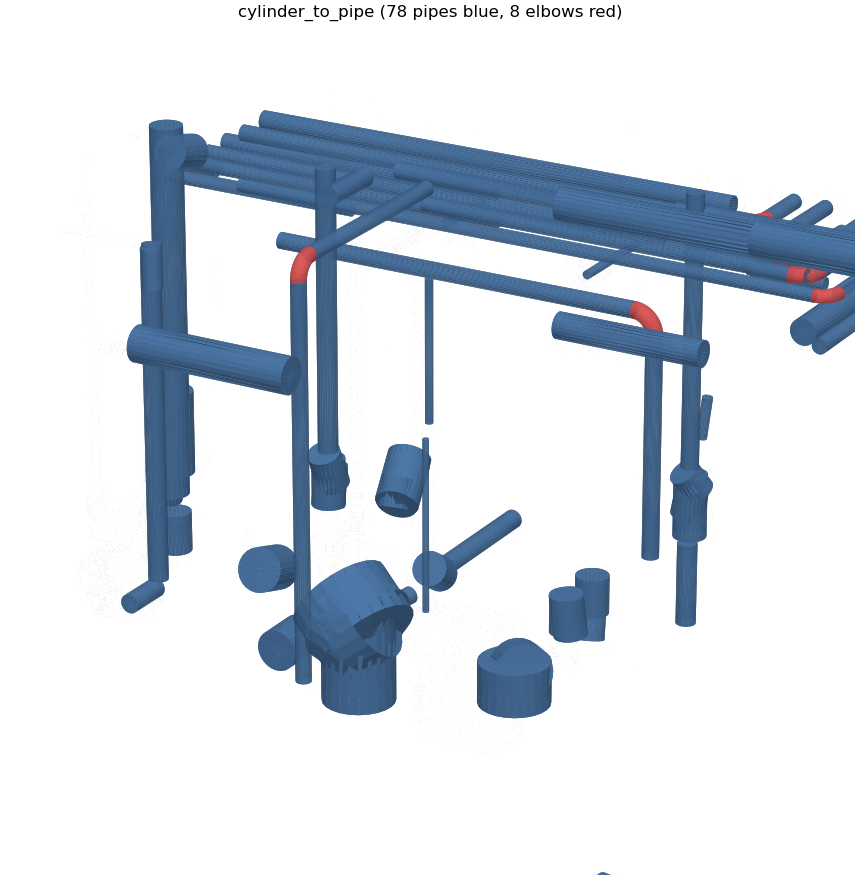
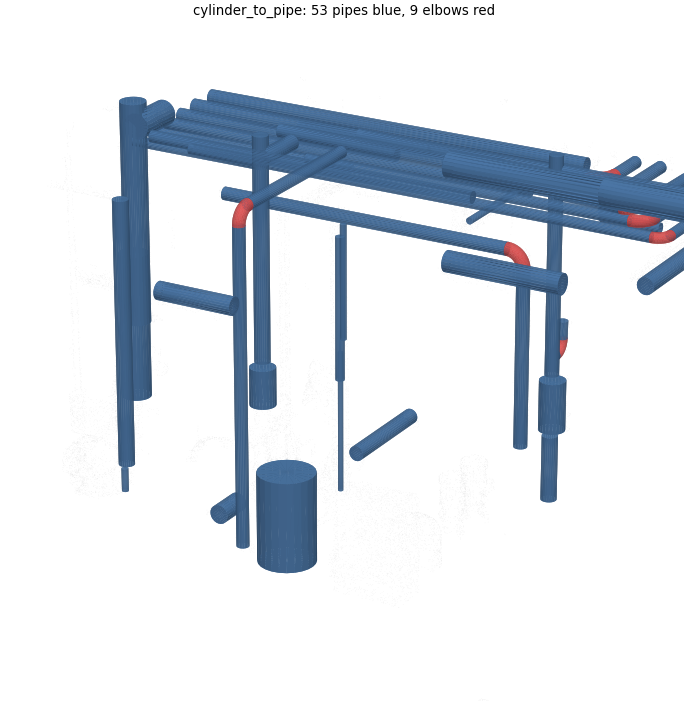
doc: shape rules, stage logs and updated sample results

diff --git a/doc/pipe.md b/doc/pipe.md
@@ -10,8 +10,8 @@ pipeline.pipe_rule(*.laz | *.las | *.pcd) > *.ifc
 | stage | input | output |
 |---|---|---|
 | pcd_to_clean | LAS, LAZ, PCD, PLY | `pcd_to_clean.pcd`, down sampled and without outliers |
-| pcd_to_cylinder | point cloud | `_@<n>.pcd` per cylinder, `_residual.pcd`, `_cylinder.json` |
-| cylinder_to_pipe | `_cylinder.json` | `_pipe.json` (pipes and elbows), `_pipe.ply` (mesh for checking) |
+| pcd_to_cylinder | point cloud | `_@<n>.pcd` per cylinder, `_residual.pcd`, `_cylinder.json`, `_log.json`, `_rejected_@<n>.pcd` |
+| cylinder_to_pipe | `_cylinder.json` | `_pipe.json` (pipes and elbows), `_pipe.ply` (mesh for checking), `_log.json` |
 | geo_to_bim_pipe | `_pipe.json` | `.ifc` with IfcPipeSegment and IfcPipeFitting |
 
 Coordinates are taken as meters. Scans in millimeters or feet have to be scaled first, or every length parameter below changed to that unit.
@@ -34,8 +34,8 @@ Each stage is also a program of its own. `--input` is a path prefix; the stage r
 
 ```
 python pcd_to_clean/pcd_to_clean.py --input ./input/kict_mep_zero_en_bdlg_parts/kict_mep_zero_en_bdlg_parts.laz --output ./output/mep/clean --voxel_down_size 0.01 --stat_neighbors 20 --stat_std_ratio 2.0 --nb_radius_points 10 --nb_radius 0.03
-python pcd_to_cylinder/pcd_to_cylinder.py --input ./output/mep/clean --output ./output/mep/cyl --min_radius 0.01 --max_radius 0.3
-python cylinder_to_pipe/cylinder_to_pipe.py --input ./output/mep/cyl --output ./output/mep/net --pipe_standard cylinder_to_pipe/pipe_standard.json
+python pcd_to_cylinder/pcd_to_cylinder.py --input ./output/mep/clean --output ./output/mep/cyl --min_radius 0.01 --max_radius 0.3 --pipe_angles "[45, 90]"
+python cylinder_to_pipe/cylinder_to_pipe.py --input ./output/mep/cyl --output ./output/mep/net --pipe_standard cylinder_to_pipe/pipe_standard.json --min_length_ratio 1.5
 python geo_to_bim_pipe/geo_to_bim_pipe.py --input ./output/mep/net --output ./output/mep/mep --mapping_rule geo_to_bim_pipe/pipe_mapping_rule.json
 ```
 
@@ -46,30 +46,31 @@ The messages of a run on the sample (the per cylinder lines shortened):
 cylinder 0: r=0.098 length=1.65 points=9556 coverage=0.89
 cylinder 1: r=0.022 length=0.80 points=287 coverage=0.28
 ...
-106 cylinders, 132222 points left, 51.4 s
-106 cylinders merged into 78 pipes, 8 elbows, 64 pipes with a nominal size
-86 elements saved to .../geo_to_bim_pipe/geo_to_bim_pipe.ifc: {'IfcPipeSegment': 78, 'IfcPipeFitting': 8}
+80 cylinders, 24 rejected, 141060 points left, 37.3 s
+80 cylinders merged into 53 pipes, 9 elbows, 48 pipes with a nominal size, 5 dropped
+62 elements saved to .../geo_to_bim_pipe/geo_to_bim_pipe.ifc: {'IfcPipeSegment': 53, 'IfcPipeFitting': 9}
 ```
 
 ## results on the sample
 
-The whole run takes about one minute on a 20 core ARM machine, most of it in pcd_to_cylinder.
+The whole run takes under a minute on a 20 core ARM machine, most of it in pcd_to_cylinder. The sample pipeline uses the shape rules below (`pipe_angles` [45, 90], `min_length_ratio` 1.5).
 
 <p align="center">
 <img width="360" src="./pipe_scan.png"/><img width="360" src="./pipe_cylinders.png"/></br>
-<img width="360" src="./pipe_residual.png"/><img width="360" src="./pipe_bim.png"/></br>
-<img width="360" src="./pipe_ifc.png"/>
+<img width="360" src="./pipe_residual.png"/><img width="360" src="./pipe_rejected.png"/></br>
+<img width="360" src="./pipe_bim.png"/><img width="360" src="./pipe_ifc.png"/>
 </p>
 
 1. pcd_to_clean. A 1 cm voxel grid and the outlier filters leave 263,967 points.
-2. pcd_to_cylinder. 106 cylinders, one color each. Pipes of the rack that are scanned from one side only are found, because a cylinder needs an unbroken arc of a quarter of the circle, not the full circle.
-3. The residual. 132,222 points are not on any cylinder: pumps, valves, flanges, the panel, cable trays and the elbows, whose bends are not cylinders. The flat trays above the rack stay here as they should.
-4. cylinder_to_pipe. 106 cylinders are merged into 78 straight pipes (blue), and 8 elbows (red) are made where two pipe ends meet at 90 degrees. 64 pipes got a nominal size, most of them 80A, 90A and 175A. Each elbow is tangent to both pipes with no gap.
-5. geo_to_bim_pipe. The IFC file opened again with ifcopenshell: 78 IfcPipeSegment (pipes blue, risers green) and 8 IfcPipeFitting BEND (red). All 86 shapes are valid solids.
+2. pcd_to_cylinder. 80 cylinders, one color each. Pipes of the rack that are scanned from one side only are found, because a cylinder needs an unbroken arc of a quarter of the circle, not the full circle.
+3. The residual. 141,060 points are not on any cylinder: pumps, valves, flanges, the panel, cable trays and the elbows, whose bends are not cylinders. The flat trays above the rack stay here as they should.
+4. Rejected. 24 cylinders whose axes no fitting can make (red) are rejected in pcd_to_cylinder, mostly on the curved casings of pumps and valves. 5 pipes are dropped in cylinder_to_pipe (orange): 4 short, thick cylinders of pump bodies and 1 piece inside a bend.
+5. cylinder_to_pipe. 80 cylinders are merged into 53 straight pipes (blue), and 9 elbows (red) are made where two pipe ends meet at 90 degrees. 48 pipes got a nominal size, most of them 80A, 90A, 65A and 100A. Each elbow is tangent to both pipes with no gap.
+6. geo_to_bim_pipe. The IFC file opened again with ifcopenshell: 53 IfcPipeSegment (pipes blue, risers green) and 9 IfcPipeFitting BEND (red). All 62 shapes are valid solids.
 
 What it does not do yet:
 
-- The cylindrical bodies of pumps and the expansion tank come out as short, thick pipes. A rule on `length` and `diameter` can map them to another class or leave them out.
+- The expansion tank is upright and longer than its diameter, so the shape rules keep it as a pipe. A mapping rule on `diameter` can map it to another class.
 - Where pipes turn twice in a short distance the pieces between the turns are too short to find, so those elbows are missing.
 - The measured diameter of an insulated pipe is the insulation, so its nominal size is that of a larger pipe. Use the nominal sizes as a guide.
 - Tees, reducers, valves and flanges are not modeled. Their points are in the residual.
@@ -87,6 +88,8 @@ All stage parameters are listed in [sbdl.md](./sbdl.md). These are the ones to l
 | `min_coverage` | pcd_to_cylinder | lower it for pipes seen from one side only, raise it when false cylinders appear between pipes lying side by side |
 | `min_points`, `min_length` | pcd_to_cylinder | lower them to keep short pieces such as the pipe between two elbows |
 | `axis_snap_angle` | pcd_to_cylinder | 0 for sloped pipes such as drains |
+| `pipe_angles`, `grid_azimuth` | pcd_to_cylinder | the fitting angles of the piping and the direction of the building grid, see shape rules |
+| `min_length_ratio` | cylinder_to_pipe | the shortest pipe as a multiple of its diameter, see shape rules |
 | `merge_gap` | cylinder_to_pipe | the largest gap along a pipe, such as a valve or a hanger that hides the pipe |
 | `pipe_standard` | cylinder_to_pipe | another file for another standard. empty keeps the measured radii |
 | `nominal_tolerance` | cylinder_to_pipe | how far a measured radius may be from a nominal size |
@@ -103,9 +106,55 @@ The SBDL file of the sample sets them like this:
     "max_radius": 0.3,
     "distance_tolerance": 0.005,
     "min_coverage": 0.25,
-    "axis_snap_angle": 5.0
+    "axis_snap_angle": 5.0,
+    "pipe_angles": [45, 90]
 }
 ```
+
+## shape rules
+
+RANSAC fits a cylinder to any curved surface, including pump casings, valve bodies and tank heads. Two facts about piping tell most of these apart from pipes.
+
+- A pipe run turns only by the angles of its fittings, usually 90 and 45 degrees, sometimes 30 or 60. So a pipe axis is level or vertical, or at a multiple of a fitting angle from them, and its plan direction is the building grid turned by such a multiple. With `pipe_angles` [45, 90] the axis must lie within `axis_snap_angle` of one of 9 directions (x, y, z, the 4 level diagonals and the 4 diagonals at 45 degrees up); [30, 45, 60, 90] gives 33 directions and [90] only x, y and z. A cylinder on another axis is rejected and its points are left for other cylinders. A cylinder near an allowed direction is snapped to it. `grid_azimuth` turns the grid when the scan is not aligned with x and y. [] (the default) allows any axis as before.
+- A pipe is long for its diameter. Pump bodies and motor housings are short and thick. `min_length_ratio` drops pipes shorter than that many diameters, unless an elbow joins them. It is applied after merging, so the short pieces of one long pipe are not lost. 0 (the default) keeps them.
+
+Results on the sample, with pipes on x, y or z and at least 2 diameters long counted as real pipes:
+
+| run | cylinders | pipes | elbows | real pipe length found | other shapes |
+|---|---|---|---|---|---|
+| no rules, seed 1 | 118 | 85 | 9 | 91 % | 32 |
+| no rules, seed 2 | 108 | 79 | 10 | 85 % | 27 |
+| rules, seed 0 | 80 | 53 | 9 | 88 % | 7 |
+| rules, seed 1 | 68 | 45 | 8 | 87 % | 5 |
+| rules, seed 2 | 83 | 56 | 8 | 86 % | 4 |
+| rules, 2 x 2 tiles | 78 | 56 | 11 | 92 % | 7 |
+
+The real pipe length is the share of the real pipes of a run without rules (2 x 2 tiles, 59.8 m) found again. The rules remove most of the other shapes and find the real pipes as well as a run without them; the spread is that of RANSAC itself. [90] alone gave a few percent more real pipe length on this room, which has no 45 degree runs.
+
+Each stage writes what it rejected to `<output>_log.json`, so a result can be checked without running it again:
+
+```
+pcd_to_cylinder_log.json
+{"stage": "pcd_to_cylinder", "input": [...], "parameters": {...}, "points": 263967, "cylinders": 80,
+ "rejected": 24, "residual": 141060, "seconds": 37.3,
+ "rejected_cylinders": [{"id": 0, "reason": "direction", "elevation": 66.08, "azimuth": 87.71,
+                         "file": "pcd_to_cylinder_rejected_@0.pcd", "start": [...], "end": [...], "axis": [...],
+                         "radius": 0.099, "length": 0.24, "points": 499, "coverage": 0.56}, ...]}
+
+cylinder_to_pipe_log.json
+{"stage": "cylinder_to_pipe", "input": [...], "parameters": {...}, "cylinders": 80, "pipes": 53, "elbows": 9,
+ "dropped": 5,
+ "dropped_pipes": [{"reason": "length_ratio", "length_ratio": 0.62, "id": 4, "start": [...], "end": [...],
+                    "radius": 0.202, "nominal": null, "length": 0.25, "cylinders": [31], ...}, ...]}
+```
+
+`elevation` is the angle of the axis from the level plane and `azimuth` its plan direction from the grid, both in degrees. The points of each rejected cylinder are in the `file` next to the log; those of a dropped pipe are in the `_@<n>.pcd` files of its `cylinders`. The reasons are `direction` (pcd_to_cylinder), `elbow_piece`, `short` (below `min_pipe_length`) and `length_ratio` (cylinder_to_pipe). A surface found again from other seeds is listed once.
+
+<p align="center">
+<img width="360" src="./pipe_ifc_no_rules.png"/><img width="360" src="./pipe_ifc.png"/>
+</p>
+
+Without rules (left) and with them (right).
 
 ## large point clouds
 
@@ -127,17 +176,17 @@ Cutting a pipe at a tile border leaves two pieces that may each fall below `min_
 2. A cylinder found in two tiles, or in two pieces, is joined into one: same axis and radius, overlapping or with a gap below `max_gap`. The joined cylinder is refitted on all its points.
 3. The thresholds are checked again on the joined cylinders, and a point found by two cylinders stays with the larger one. `_cylinder.json` looks the same as without tiles, so the next stages do not change.
 
-On the sample with 2 x 2 tiles (margin 0.65 m):
+On the sample with 2 x 2 tiles (margin 0.65 m) and the shape rules:
 
 | run | cylinders | pipes | elbows | time |
 |---|---|---|---|---|
-| whole cloud, seed 0 | 106 | 78 | 8 | 55 s |
-| whole cloud, seed 1 | 118 | 85 | 9 | 55 s |
-| whole cloud, seed 2 | 108 | 79 | 10 | 50 s |
-| 2 x 2 tiles, 1 worker | 95 | 78 | 8 | 84 s |
-| 2 x 2 tiles, 4 workers | 95 | 78 | 8 | 29 s |
+| whole cloud, seed 0 | 80 | 53 | 9 | 37 s |
+| whole cloud, seed 1 | 68 | 45 | 8 | 24 s |
+| whole cloud, seed 2 | 83 | 56 | 8 | 40 s |
+| 2 x 2 tiles, 1 worker | 78 | 56 | 11 | 85 s |
+| 2 x 2 tiles, 4 workers | 78 | 56 | 11 | 32 s |
 
-84 % of the pipe length of the whole cloud run lies on pipes of the tiled run. Two whole cloud runs with other seeds match it by 84 % and 85 %, so the tiles change the result no more than the random sampling of RANSAC does. There are fewer cylinders because pieces of one pipe that the whole cloud run kept apart are joined. A tile with its margin holds more points than a quarter of the cloud, so on a small cloud like this the tiles pay off only in parallel. On large clouds the tiles also bound the work of each search. The whole cloud is still loaded once, so memory is not reduced.
+89 % of the pipe length of the whole cloud run (seed 0) lies on pipes of the tiled run. Two whole cloud runs with other seeds match it by 83 % and 86 %, so the tiles change the result no more than the random sampling of RANSAC does. Without the shape rules the figures were 84 % against 84 % and 85 %. There are fewer cylinders because pieces of one pipe that the whole cloud run kept apart are joined. A tile with its margin holds more points than a quarter of the cloud, so on a small cloud like this the tiles pay off only in parallel. On large clouds the tiles also bound the work of each search. The whole cloud is still loaded once, so memory is not reduced.
 
 ## pipe standard file
 
@@ -190,7 +239,7 @@ The parameters a condition can use are `kind`, `radius`, `diameter`, `length`, `
 
 ## tests
 
-`tests/test_cylinder.py` checks the stages on synthetic pipes: a pipe scanned from one side next to a wall, axis snapping and splitting at gaps, pipes joined across a tile border, merging, nominal sizes, elbows with their tangent points, no elbow at a tee or an odd angle, elbow pieces and 45 degree offsets, the mapping rules, and a run of the three stages whose IFC elbow is checked against a quarter torus.
+`tests/test_cylinder.py` checks the stages on synthetic pipes: a pipe scanned from one side next to a wall, axis snapping and splitting at gaps, pipes joined across a tile border, pipe directions and the rejection of axes off the fitting angles, the stage logs of rejected cylinders and dropped short pipes, merging, nominal sizes, elbows with their tangent points, no elbow at a tee or an odd angle, elbow pieces and 45 degree offsets, the mapping rules, and a run of the three stages whose IFC elbow is checked against a quarter torus.
 
 ```
 python -m pytest tests/test_cylinder.py
@@ -206,3 +255,4 @@ python -m pytest tests/test_cylinder.py
 | 2026.11 | geo_to_bim_pipe: IfcPipeSegment as extruded circles, IfcPipeFitting BEND as a disk swept along an arc, classes and properties from a mapping rule file. |
 | 2026.11 | pipe_rule sample pipeline on part of the KICT zero energy building mechanical room. |
 | 2026.11 | pcd_to_cylinder: tiled search with a margin around each tile, joining of pieces across tile borders, tiles in parallel. |
+| 2026.11 | shape rules: axes only at multiples of the fitting angles (pipe_angles, grid_azimuth) and a shortest pipe per diameter (min_length_ratio). Stage logs with the rejected cylinders and dropped pipes and their points. |

diff --git a/doc/sbdl.md b/doc/sbdl.md
@@ -150,7 +150,7 @@ The pipe stages, with results on a sample scan, are also described in [pipe.md](
 
 Extracts cylinders, such as pipes, with RANSAC. A seed point and a neighbour with their normals give a cylinder hypothesis; the hypotheses are scored around the seed, the best one is refined by least squares on all points (axis from the normals, circle fit across the axis) and cut where its points stop along the axis. A cylinder is kept when its points cover an unbroken arc of at least `min_coverage`, so a pipe scanned from one side is still found while a false cylinder touching several pipes is not. Its points are then removed and the search goes on until `max_failures` seeds in a row give nothing.
 
-Reads every point cloud that matches the input prefix, LAS and LAZ included. Writes `<output>_@<n>.pcd` with the points of each cylinder, `<output>_residual.pcd` with the rest and `<output>_cylinder.json` with start, end, axis, radius, length, number of points and coverage of each cylinder.
+Reads every point cloud that matches the input prefix, LAS and LAZ included. Writes `<output>_@<n>.pcd` with the points of each cylinder, `<output>_residual.pcd` with the rest and `<output>_cylinder.json` with start, end, axis, radius, length, number of points and coverage of each cylinder. `<output>_log.json` holds the parameters, the counts and the cylinders rejected by `pipe_angles`, whose points are in `<output>_rejected_@<n>.pcd`.
 
 | parameter | default | |
 |---|---|---|
@@ -167,6 +167,8 @@ Reads every point cloud that matches the input prefix, LAS and LAZ included. Wri
 | `hypotheses` | 50 | hypotheses scored per seed point |
 | `max_failures` | 200 | |
 | `seed` | 0 | random seed, for repeatable results |
+| `pipe_angles` | [] | fitting angles, e.g. [45, 90]. axes that are not level, vertical or at a multiple of these angles from them, in plan from the grid, are rejected. [] allows any axis |
+| `grid_azimuth` | 0 | plan direction of the building grid from x, in degrees |
 | `tiles` | [1, 1] | tiles along x and y, or x, y and z. [1, 1] searches the whole cloud at once |
 | `tile_overlap` | 0 | margin around each tile. 0 takes max(`min_length`, 2 x `max_radius`) + `max_gap` |
 | `tile_workers` | 1 | tiles searched in parallel processes |
@@ -175,7 +177,7 @@ With more than one tile, each tile is searched together with the margin around i
 
 ### cylinder_to_pipe
 
-Merges cylinders on one axis into straight pipes, snaps their radii to nominal sizes and joins two pipe ends that point at a common corner with an elbow. The elbow is a torus segment tangent to both pipes; both pipes are cut or extended to its tangent points. A short pipe in the corner of an elbow, at an angle to both pipes, is a piece of the bend and is dropped. Two parallel pipes joined by a short pipe at 45 degrees are an offset and keep the short pipe. Writes `<output>_pipe.json` (pipes and elbows) and `<output>_pipe.ply`.
+Merges cylinders on one axis into straight pipes, snaps their radii to nominal sizes and joins two pipe ends that point at a common corner with an elbow. The elbow is a torus segment tangent to both pipes; both pipes are cut or extended to its tangent points. A short pipe in the corner of an elbow, at an angle to both pipes, is a piece of the bend and is dropped. Two parallel pipes joined by a short pipe at 45 degrees are an offset and keep the short pipe. Writes `<output>_pipe.json` (pipes and elbows), `<output>_pipe.ply` and `<output>_log.json` with the parameters, the counts and the pipes that were dropped, with the reason.
 
 | parameter | default | |
 |---|---|---|
@@ -190,6 +192,7 @@ Merges cylinders on one axis into straight pipes, snaps their radii to nominal s
 | `elbow_axis_tolerance` | 1.0 | largest distance between the two axes, in pipe radii |
 | `elbow_reach` | 0.5 | largest distance from a pipe end to the corner |
 | `elbow_piece_length` | 0.3 | shorter pipes in the corner of an elbow are dropped |
+| `min_length_ratio` | 0 | pipes shorter than this many diameters and not joined by an elbow are dropped. 0 keeps them |
 
 The pipe standard file holds what a pipe standard defines. Relative paths are taken from the working directory, then from the repository root.
 

diff --git a/doc/cli.md b/doc/cli.md
@@ -69,8 +69,8 @@ A pipeline file with the parameters that are most often changed:
 {
     "pipeline.pipe_rule": [
         {"type": "pcd_to_clean", "voxel_down_size": 0.01, "nb_radius_points": 10, "nb_radius": 0.03},
-        {"type": "pcd_to_cylinder", "min_radius": 0.01, "max_radius": 0.3, "tiles": [2, 2], "tile_workers": 4},
-        {"type": "cylinder_to_pipe", "pipe_standard": "cylinder_to_pipe/pipe_standard.json"},
+        {"type": "pcd_to_cylinder", "min_radius": 0.01, "max_radius": 0.3, "pipe_angles": [45, 90], "tiles": [2, 2], "tile_workers": 4},
+        {"type": "cylinder_to_pipe", "pipe_standard": "cylinder_to_pipe/pipe_standard.json", "min_length_ratio": 1.5},
         {"type": "geo_to_bim_pipe", "mapping_rule": "geo_to_bim_pipe/pipe_mapping_rule.json"}
     ]
 }
@@ -87,5 +87,7 @@ A mapping rule maps an element when all its conditions hold, and the first match
     ]
 }
 ```
+
+pcd_to_cylinder and cylinder_to_pipe also write `<output>_log.json` with their parameters, counts and the cylinders and pipes they rejected, with the reason and the point files, see [pipe.md](./pipe.md#shape-rules).
 
 `pcd_to_bbox/revit_family_types.json` and `seg_to_geo_ml/seg_to_geo_config.json` are kept as examples of a Revit family list and a segment color table. No stage reads them.
